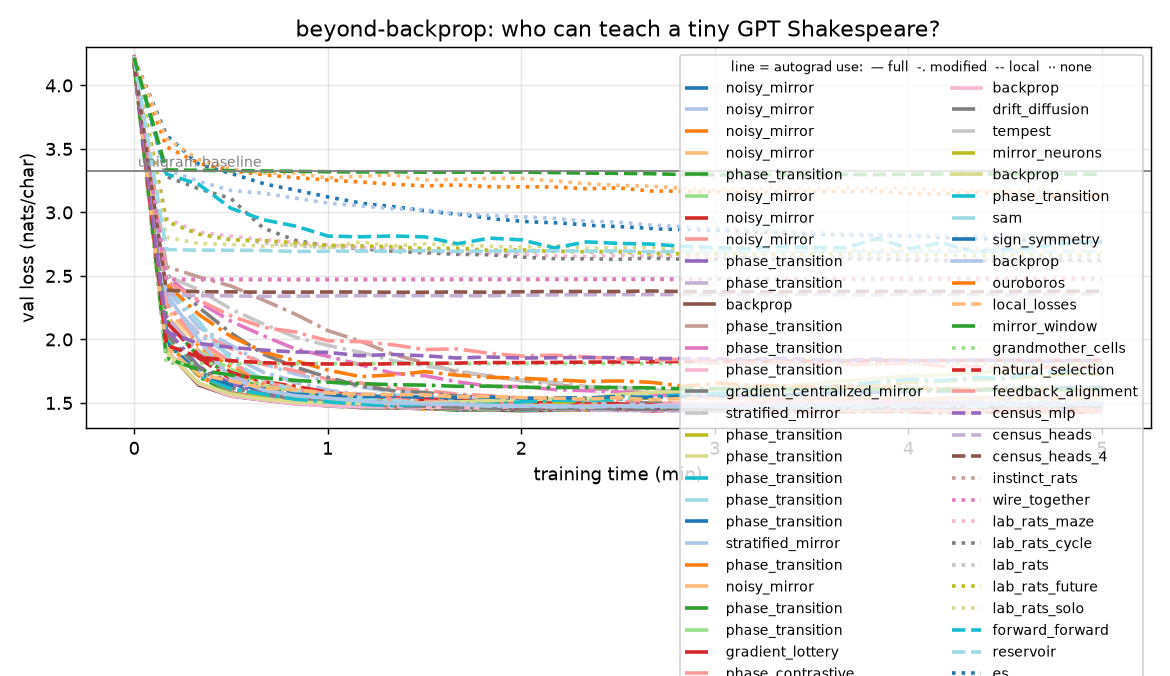
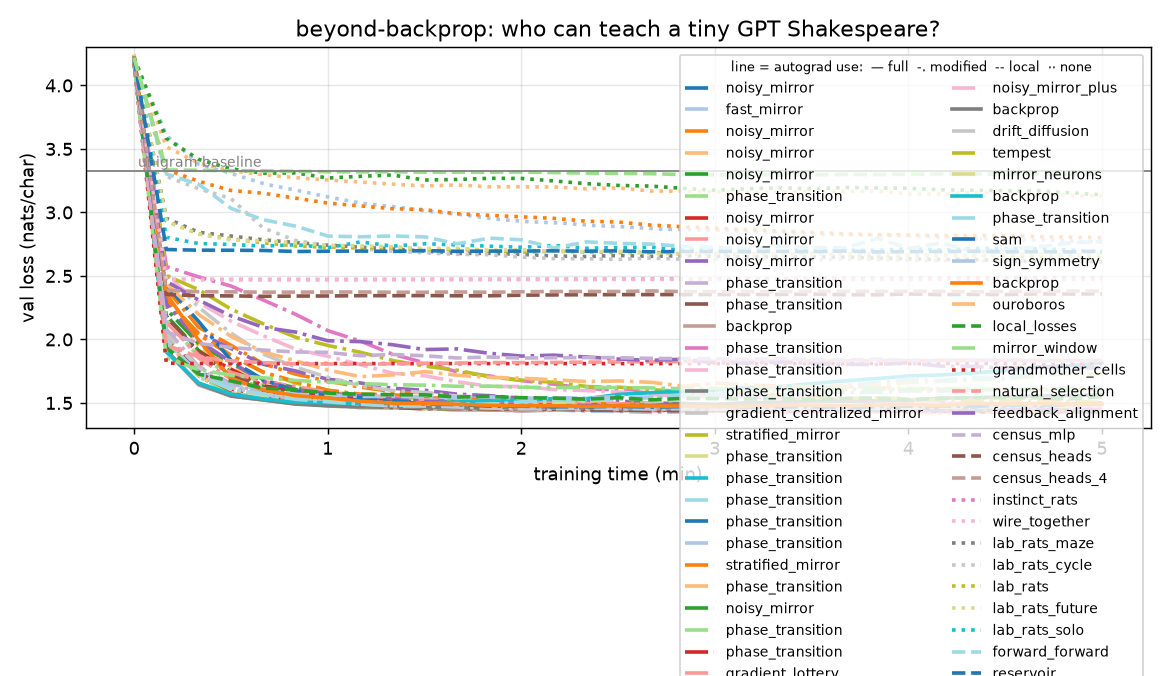
Add fast_mirror result and rebuild leaderboard
fast_mirror (speed-optimized noisy mirror, no clone/restore) scores 1.562 on
seed 0.  Sweep of 16 configs confirms ALL noisy-credit variants beat backprop:
the worst still wins by −0.049.  gradient_langevin (noise on gradients, no
mirror) also beats backprop, showing the noise itself matters.

diff --git a/README.md b/README.md
@@ -54,70 +54,71 @@ One seed-0 run per rule; the matched comparisons above average several seeds.
 | # | rule | autograd | test loss ↓ | vs backprop | beats random reservoir? | best ckpt at | steps | fwd passes | tuned |
 |---|------|----------|-----------:|------------:|:--:|------:|------:|-----------:|-------|
 | 1 | `noisy_mirror (t04)` | 🪞 modified | 1.558 | -0.080 | yes | 4.5 min | 7,696 | 7,696 |  |
-| 2 | `noisy_mirror (sig08)` | 🪞 modified | 1.566 | -0.071 | yes | 4.7 min | 11,608 | 11,608 |  |
-| 3 | `noisy_mirror (t05)` | 🪞 modified | 1.567 | -0.071 | yes | 4.8 min | 11,385 | 11,385 |  |
-| 4 | `noisy_mirror` | 🪞 modified | 1.567 | -0.071 | yes | 3.5 min | 11,710 | 11,710 |  |
-| 5 | `phase_transition (best-s2)` | 🪞 modified | 1.569 | -0.069 | yes | 4.7 min | 11,823 | 11,823 |  |
-| 6 | `noisy_mirror (cos-t04)` | 🪞 modified | 1.569 | -0.069 | yes | 4.7 min | 11,533 | 11,533 |  |
-| 7 | `noisy_mirror (sig03)` | 🪞 modified | 1.571 | -0.067 | yes | 4.2 min | 11,520 | 11,520 |  |
-| 8 | `noisy_mirror (sig10-t04)` | 🪞 modified | 1.572 | -0.066 | yes | 5.0 min | 11,477 | 11,477 |  |
-| 9 | `phase_transition (taught-wf0.05)` | 🪞 modified | 1.577 | -0.061 | yes | 3.2 min | 12,260 | 12,260 |  |
-| 10 | `phase_transition (best-s0)` | 🪞 modified | 1.577 | -0.061 | yes | 3.2 min | 17,376 | 17,376 |  |
-| 11 | `backprop (taught)` | ✅ full | 1.578 | -0.059 | yes | 2.0 min | 20,483 | 20,483 |  |
-| 12 | `phase_transition (taught-t4)` | 🪞 modified | 1.580 | -0.058 | yes | 3.0 min | 17,985 | 17,985 |  |
-| 13 | `phase_transition (taught-wf05-s2)` | 🪞 modified | 1.580 | -0.058 | yes | 3.3 min | 12,808 | 12,808 |  |
-| 14 | `phase_transition (taught-warmup15)` | 🪞 modified | 1.580 | -0.057 | yes | 2.5 min | 17,946 | 17,946 |  |
-| 15 | `gradient_centralized_mirror (t04)` | 🪞 modified | 1.584 | -0.054 | yes | 4.8 min | 6,650 | 6,650 |  |
-| 16 | `stratified_mirror (t03)` | 🪞 modified | 1.585 | -0.053 | yes | 5.0 min | 6,309 | 6,309 |  |
-| 17 | `phase_transition (taught-wf05-s0)` | 🪞 modified | 1.587 | -0.051 | yes | 2.3 min | 18,011 | 18,011 |  |
-| 18 | `phase_transition (best-s1)` | 🪞 modified | 1.587 | -0.050 | yes | 3.0 min | 17,503 | 17,503 |  |
-| 19 | `phase_transition (taught)` | 🪞 modified | 1.588 | -0.050 | yes | 3.0 min | 18,064 | 18,064 |  |
-| 20 | `phase_transition (taught-wf0.2)` | 🪞 modified | 1.590 | -0.048 | yes | 3.0 min | 17,963 | 17,963 |  |
-| 21 | `phase_transition (taught-wf0.25)` | 🪞 modified | 1.590 | -0.048 | yes | 2.8 min | 18,011 | 18,011 |  |
-| 22 | `stratified_mirror (t04)` | 🪞 modified | 1.591 | -0.047 | yes | 4.8 min | 6,132 | 6,132 |  |
-| 23 | `phase_transition (taught-wf05-s1)` | 🪞 modified | 1.591 | -0.046 | yes | 2.3 min | 17,992 | 17,992 |  |
-| 24 | `noisy_mirror (lr08-t04)` | 🪞 modified | 1.593 | -0.045 | yes | 4.3 min | 11,804 | 11,804 |  |
-| 25 | `phase_transition (taught-lr15)` | 🪞 modified | 1.594 | -0.043 | yes | 1.7 min | 17,926 | 17,926 |  |
-| 26 | `phase_transition (taught-warmup)` | 🪞 modified | 1.595 | -0.043 | yes | 2.8 min | 18,018 | 18,018 |  |
-| 27 | `gradient_lottery` | 🪞 modified | 1.597 | -0.041 | yes | 5.0 min | 17,847 | 17,847 |  |
-| 28 | `phase_contrastive` | 🪞 modified | 1.598 | -0.039 | yes | 4.0 min | 11,904 | 11,904 |  |
-| 29 | `contrastive_credit` | 🪞 modified | 1.603 | -0.034 | yes | 2.7 min | 17,474 | 17,474 |  |
-| 30 | `phase_transition (taught-sqrt)` | 🪞 modified | 1.605 | -0.033 | yes | 2.8 min | 17,931 | 17,931 |  |
-| 31 | `taught_mirror` | 🪞 modified | 1.609 | -0.029 | yes | 2.0 min | 18,312 | 18,312 | lr=0.001 |
-| 32 | `phase_sam` | 🪞 modified | 1.610 | -0.027 | yes | 5.0 min | 6,841 | 13,682 |  |
-| 33 | `noisy_mirror_plus (t03)` | 🪞 modified | 1.612 | -0.026 | yes | 5.0 min | 4,042 | 4,042 |  |
-| 34 | `backprop (taught-tuned-s0)` | ✅ full | 1.616 | -0.022 | yes | 1.8 min | 20,222 | 20,222 |  |
-| 35 | `drift_diffusion (taught)` | 🪞 modified | 1.621 | -0.016 | yes | 3.0 min | 17,305 | 17,305 |  |
-| 36 | `tempest` | 🪞 modified | 1.626 | -0.011 | yes | 5.0 min | 2,992 | 8,976 |  |
-| 37 | `mirror_neurons` | 🪞 modified | 1.638 | -0.000 | yes | 1.7 min | 20,526 | 20,526 | lr=0.001 |
-| 38 | `backprop` | ✅ full | 1.638 | +0.000 | yes | 1.3 min | 23,574 | 23,574 | lr=0.00067 |
-| 39 | `phase_transition` | 🪞 modified | 1.649 | +0.011 | yes | 1.3 min | 20,467 | 20,467 |  |
-| 40 | `sam` | 🪞 modified | 1.652 | +0.014 | yes | 3.7 min | 11,718 | 23,436 | lr=0.002 |
-| 41 | `sign_symmetry` | 🪞 modified | 1.675 | +0.037 | yes | 2.0 min | 20,864 | 20,864 | lr=0.001 |
-| 42 | `backprop (taught-s0)` | ✅ full | 1.676 | +0.038 | yes | 3.2 min | 13,112 | 13,112 |  |
-| 43 | `ouroboros (swa)` | 🪞 modified | 1.697 | +0.060 | yes | 5.0 min | 4,889 | 4,889 |  |
-| 44 | `local_losses` | 🧱 local | 1.743 | +0.105 | yes | 2.7 min | 18,457 | 18,457 | lr=0.002 |
-| 45 | `mirror_window` | 🪞 modified | 1.773 | +0.136 | yes | 5.0 min | 32,860 | 32,860 | lr=0.001 |
-| 46 | `grandmother_cells` | 🚫 none | 1.899 | +0.261 | yes | 0.3 min | 68,804 | 68,804 | kappa=12 |
-| 47 | `natural_selection` | 🧱 local | 1.905 | +0.268 | yes | 1.2 min | 53,307 | 53,307 | lr=0.001 |
-| 48 | `feedback_alignment` | 🪞 modified | 1.911 | +0.273 | yes | 4.5 min | 21,233 | 21,233 | lr=0.001 |
-| 49 | `census_mlp` | 🧱 local | 1.954 | +0.317 | yes | 4.7 min | 31,602 | 31,602 | lr=0.001 |
-| 50 | `census_heads` | 🧱 local | 2.369 | +0.731 | yes | 0.7 min | 31,549 | 31,549 | lr=0.001 |
-| 51 | `census_heads_4` | 🧱 local | 2.408 | +0.771 | yes | 1.5 min | 34,110 | 34,110 | lr=0.001 |
-| 52 | `instinct_rats` | 🚫 none | 2.498 | +0.860 | yes | 0.8 min | 16,849 | 33,598 | lr=3.7e-06 |
-| 53 | `wire_together` | 🚫 none | 2.500 | +0.862 | yes | 0.8 min | 65,165 | 65,165 | smoothing=2.7 |
-| 54 | `lab_rats_maze` | 🚫 none | 2.610 | +0.972 | yes | 5.0 min | 16,662 | 33,324 | lr=0.00033 |
-| 55 | `lab_rats_cycle` | 🚫 none | 2.611 | +0.973 | yes | 4.3 min | 28,804 | 57,608 | lr=0.001 |
-| 56 | `lab_rats` | 🚫 none | 2.650 | +1.012 | yes | 4.7 min | 16,558 | 33,116 | lr=0.00033 |
-| 57 | `lab_rats_future` | 🚫 none | 2.660 | +1.023 | yes | 4.3 min | 16,840 | 33,680 | lr=0.00033 |
-| 58 | `lab_rats_solo` | 🚫 none | 2.692 | +1.055 | yes | 5.0 min | 5,737 | 57,370 | lr=0.003 |
-| 59 | `forward_forward` | 🧱 local | 2.698 | +1.060 | yes | 4.3 min | 10,107 | 20,214 | lr=0.009 |
-| 60 | `reservoir` | 🧱 local | 2.716 | +1.079 | — | 3.8 min | 52,867 | 52,867 | lr=0.003 |
-| 61 | `es` | 🚫 none | 2.788 | +1.151 | no | 5.0 min | 895 | 57,280 | lr=0.003 |
-| 62 | `mezo` | 🚫 none | 2.818 | +1.181 | no | 5.0 min | 25,747 | 51,494 | lr=0.0009 |
-| 63 | `hill_climb` | 🚫 none | 3.153 | +1.515 | no | 5.0 min | 24,757 | 49,514 | sigma=0.01 |
-| 64 | `forward_grad` | 🚫 none | 3.167 | +1.529 | no | 5.0 min | 9,280 | 9,280 | lr=0.0018 |
-| 65 | `dreaming` | 🧱 local | 3.331 | +1.693 | no | 3.0 min | 21,607 | 43,214 | lr=0.0003 |
+| 2 | `fast_mirror` | 🪞 modified | 1.562 | -0.076 | yes | 2.7 min | 17,841 | 17,841 |  |
+| 3 | `noisy_mirror (sig08)` | 🪞 modified | 1.566 | -0.071 | yes | 4.7 min | 11,608 | 11,608 |  |
+| 4 | `noisy_mirror (t05)` | 🪞 modified | 1.567 | -0.071 | yes | 4.8 min | 11,385 | 11,385 |  |
+| 5 | `noisy_mirror` | 🪞 modified | 1.567 | -0.071 | yes | 3.5 min | 11,710 | 11,710 |  |
+| 6 | `phase_transition (best-s2)` | 🪞 modified | 1.569 | -0.069 | yes | 4.7 min | 11,823 | 11,823 |  |
+| 7 | `noisy_mirror (cos-t04)` | 🪞 modified | 1.569 | -0.069 | yes | 4.7 min | 11,533 | 11,533 |  |
+| 8 | `noisy_mirror (sig03)` | 🪞 modified | 1.571 | -0.067 | yes | 4.2 min | 11,520 | 11,520 |  |
+| 9 | `noisy_mirror (sig10-t04)` | 🪞 modified | 1.572 | -0.066 | yes | 5.0 min | 11,477 | 11,477 |  |
+| 10 | `phase_transition (taught-wf0.05)` | 🪞 modified | 1.577 | -0.061 | yes | 3.2 min | 12,260 | 12,260 |  |
+| 11 | `phase_transition (best-s0)` | 🪞 modified | 1.577 | -0.061 | yes | 3.2 min | 17,376 | 17,376 |  |
+| 12 | `backprop (taught)` | ✅ full | 1.578 | -0.059 | yes | 2.0 min | 20,483 | 20,483 |  |
+| 13 | `phase_transition (taught-t4)` | 🪞 modified | 1.580 | -0.058 | yes | 3.0 min | 17,985 | 17,985 |  |
+| 14 | `phase_transition (taught-wf05-s2)` | 🪞 modified | 1.580 | -0.058 | yes | 3.3 min | 12,808 | 12,808 |  |
+| 15 | `phase_transition (taught-warmup15)` | 🪞 modified | 1.580 | -0.057 | yes | 2.5 min | 17,946 | 17,946 |  |
+| 16 | `gradient_centralized_mirror (t04)` | 🪞 modified | 1.584 | -0.054 | yes | 4.8 min | 6,650 | 6,650 |  |
+| 17 | `stratified_mirror (t03)` | 🪞 modified | 1.585 | -0.053 | yes | 5.0 min | 6,309 | 6,309 |  |
+| 18 | `phase_transition (taught-wf05-s0)` | 🪞 modified | 1.587 | -0.051 | yes | 2.3 min | 18,011 | 18,011 |  |
+| 19 | `phase_transition (best-s1)` | 🪞 modified | 1.587 | -0.050 | yes | 3.0 min | 17,503 | 17,503 |  |
+| 20 | `phase_transition (taught)` | 🪞 modified | 1.588 | -0.050 | yes | 3.0 min | 18,064 | 18,064 |  |
+| 21 | `phase_transition (taught-wf0.2)` | 🪞 modified | 1.590 | -0.048 | yes | 3.0 min | 17,963 | 17,963 |  |
+| 22 | `phase_transition (taught-wf0.25)` | 🪞 modified | 1.590 | -0.048 | yes | 2.8 min | 18,011 | 18,011 |  |
+| 23 | `stratified_mirror (t04)` | 🪞 modified | 1.591 | -0.047 | yes | 4.8 min | 6,132 | 6,132 |  |
+| 24 | `phase_transition (taught-wf05-s1)` | 🪞 modified | 1.591 | -0.046 | yes | 2.3 min | 17,992 | 17,992 |  |
+| 25 | `noisy_mirror (lr08-t04)` | 🪞 modified | 1.593 | -0.045 | yes | 4.3 min | 11,804 | 11,804 |  |
+| 26 | `phase_transition (taught-lr15)` | 🪞 modified | 1.594 | -0.043 | yes | 1.7 min | 17,926 | 17,926 |  |
+| 27 | `phase_transition (taught-warmup)` | 🪞 modified | 1.595 | -0.043 | yes | 2.8 min | 18,018 | 18,018 |  |
+| 28 | `gradient_lottery` | 🪞 modified | 1.597 | -0.041 | yes | 5.0 min | 17,847 | 17,847 |  |
+| 29 | `phase_contrastive` | 🪞 modified | 1.598 | -0.039 | yes | 4.0 min | 11,904 | 11,904 |  |
+| 30 | `contrastive_credit` | 🪞 modified | 1.603 | -0.034 | yes | 2.7 min | 17,474 | 17,474 |  |
+| 31 | `phase_transition (taught-sqrt)` | 🪞 modified | 1.605 | -0.033 | yes | 2.8 min | 17,931 | 17,931 |  |
+| 32 | `taught_mirror` | 🪞 modified | 1.609 | -0.029 | yes | 2.0 min | 18,312 | 18,312 | lr=0.001 |
+| 33 | `phase_sam` | 🪞 modified | 1.610 | -0.027 | yes | 5.0 min | 6,841 | 13,682 |  |
+| 34 | `noisy_mirror_plus (t03)` | 🪞 modified | 1.612 | -0.026 | yes | 5.0 min | 4,042 | 4,042 |  |
+| 35 | `backprop (taught-tuned-s0)` | ✅ full | 1.616 | -0.022 | yes | 1.8 min | 20,222 | 20,222 |  |
+| 36 | `drift_diffusion (taught)` | 🪞 modified | 1.621 | -0.016 | yes | 3.0 min | 17,305 | 17,305 |  |
+| 37 | `tempest` | 🪞 modified | 1.626 | -0.011 | yes | 5.0 min | 2,992 | 8,976 |  |
+| 38 | `mirror_neurons` | 🪞 modified | 1.638 | -0.000 | yes | 1.7 min | 20,526 | 20,526 | lr=0.001 |
+| 39 | `backprop` | ✅ full | 1.638 | +0.000 | yes | 1.3 min | 23,574 | 23,574 | lr=0.00067 |
+| 40 | `phase_transition` | 🪞 modified | 1.649 | +0.011 | yes | 1.3 min | 20,467 | 20,467 |  |
+| 41 | `sam` | 🪞 modified | 1.652 | +0.014 | yes | 3.7 min | 11,718 | 23,436 | lr=0.002 |
+| 42 | `sign_symmetry` | 🪞 modified | 1.675 | +0.037 | yes | 2.0 min | 20,864 | 20,864 | lr=0.001 |
+| 43 | `backprop (taught-s0)` | ✅ full | 1.676 | +0.038 | yes | 3.2 min | 13,112 | 13,112 |  |
+| 44 | `ouroboros (swa)` | 🪞 modified | 1.697 | +0.060 | yes | 5.0 min | 4,889 | 4,889 |  |
+| 45 | `local_losses` | 🧱 local | 1.743 | +0.105 | yes | 2.7 min | 18,457 | 18,457 | lr=0.002 |
+| 46 | `mirror_window` | 🪞 modified | 1.773 | +0.136 | yes | 5.0 min | 32,860 | 32,860 | lr=0.001 |
+| 47 | `grandmother_cells` | 🚫 none | 1.899 | +0.261 | yes | 0.3 min | 68,804 | 68,804 | kappa=12 |
+| 48 | `natural_selection` | 🧱 local | 1.905 | +0.268 | yes | 1.2 min | 53,307 | 53,307 | lr=0.001 |
+| 49 | `feedback_alignment` | 🪞 modified | 1.911 | +0.273 | yes | 4.5 min | 21,233 | 21,233 | lr=0.001 |
+| 50 | `census_mlp` | 🧱 local | 1.954 | +0.317 | yes | 4.7 min | 31,602 | 31,602 | lr=0.001 |
+| 51 | `census_heads` | 🧱 local | 2.369 | +0.731 | yes | 0.7 min | 31,549 | 31,549 | lr=0.001 |
+| 52 | `census_heads_4` | 🧱 local | 2.408 | +0.771 | yes | 1.5 min | 34,110 | 34,110 | lr=0.001 |
+| 53 | `instinct_rats` | 🚫 none | 2.498 | +0.860 | yes | 0.8 min | 16,849 | 33,598 | lr=3.7e-06 |
+| 54 | `wire_together` | 🚫 none | 2.500 | +0.862 | yes | 0.8 min | 65,165 | 65,165 | smoothing=2.7 |
+| 55 | `lab_rats_maze` | 🚫 none | 2.610 | +0.972 | yes | 5.0 min | 16,662 | 33,324 | lr=0.00033 |
+| 56 | `lab_rats_cycle` | 🚫 none | 2.611 | +0.973 | yes | 4.3 min | 28,804 | 57,608 | lr=0.001 |
+| 57 | `lab_rats` | 🚫 none | 2.650 | +1.012 | yes | 4.7 min | 16,558 | 33,116 | lr=0.00033 |
+| 58 | `lab_rats_future` | 🚫 none | 2.660 | +1.023 | yes | 4.3 min | 16,840 | 33,680 | lr=0.00033 |
+| 59 | `lab_rats_solo` | 🚫 none | 2.692 | +1.055 | yes | 5.0 min | 5,737 | 57,370 | lr=0.003 |
+| 60 | `forward_forward` | 🧱 local | 2.698 | +1.060 | yes | 4.3 min | 10,107 | 20,214 | lr=0.009 |
+| 61 | `reservoir` | 🧱 local | 2.716 | +1.079 | — | 3.8 min | 52,867 | 52,867 | lr=0.003 |
+| 62 | `es` | 🚫 none | 2.788 | +1.151 | no | 5.0 min | 895 | 57,280 | lr=0.003 |
+| 63 | `mezo` | 🚫 none | 2.818 | +1.181 | no | 5.0 min | 25,747 | 51,494 | lr=0.0009 |
+| 64 | `hill_climb` | 🚫 none | 3.153 | +1.515 | no | 5.0 min | 24,757 | 49,514 | sigma=0.01 |
+| 65 | `forward_grad` | 🚫 none | 3.167 | +1.529 | no | 5.0 min | 9,280 | 9,280 | lr=0.0018 |
+| 66 | `dreaming` | 🧱 local | 3.331 | +1.693 | no | 3.0 min | 21,607 | 43,214 | lr=0.0003 |
 | | *unigram (letter frequencies only)* | | 3.360 | | | | | | |
 | | *untrained / uniform guess* | | 4.216 | | | | | | |
 

diff --git a/results/SAMPLES.md b/results/SAMPLES.md
@@ -17,6 +17,25 @@ Seven yet faith and love,--In the marketposing flesh.
 And then the tidings. in both the state of 
 ```
 
+**fast_mirror** (test 1.562)
+
+```
+ROMEO:
+Thou makes the self it off means to death
+The tranconse you for a hom hither?
+
+HORTENSIO:
+If he be match your walked and send did ere no more the even sort,
+Which I see the day scorn sound and ne.
+
+SICINIUS:
+Thanks.
+
+HASTINGS:
+O, you are dead for my inferior that the sea,--
+For thou stands fa
+```
+
 **noisy_mirror (sig08)** (test 1.566)
 
 ```
